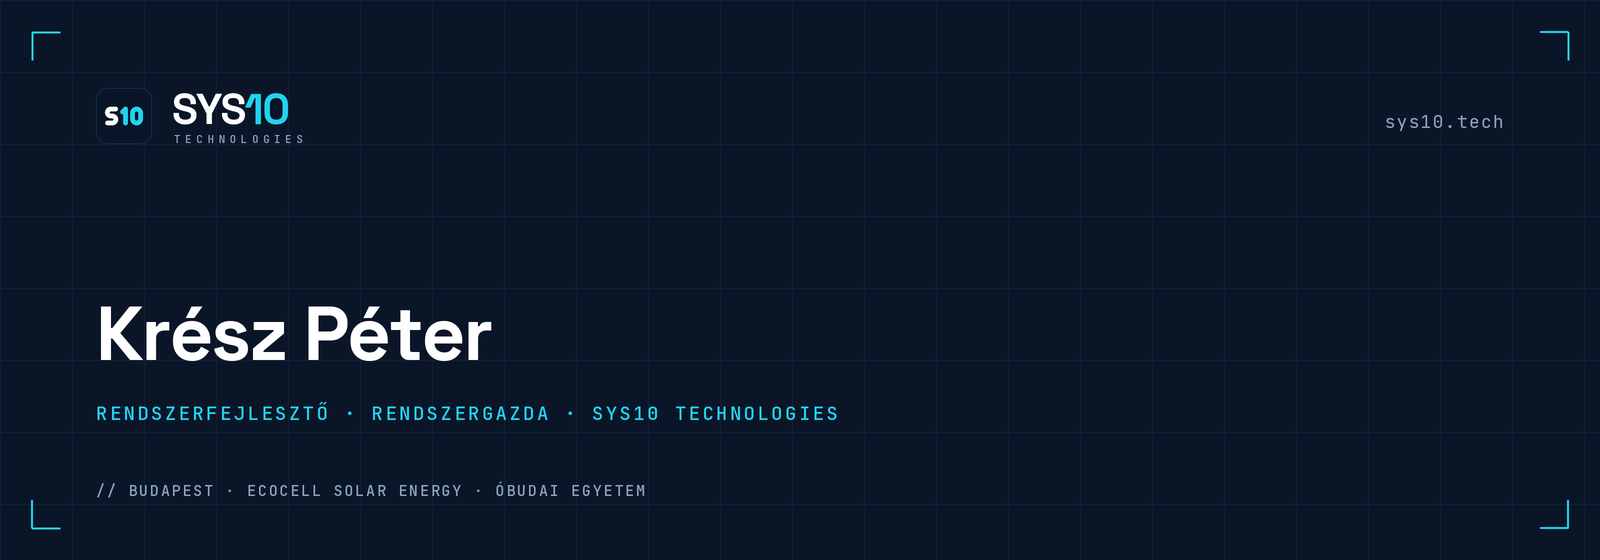
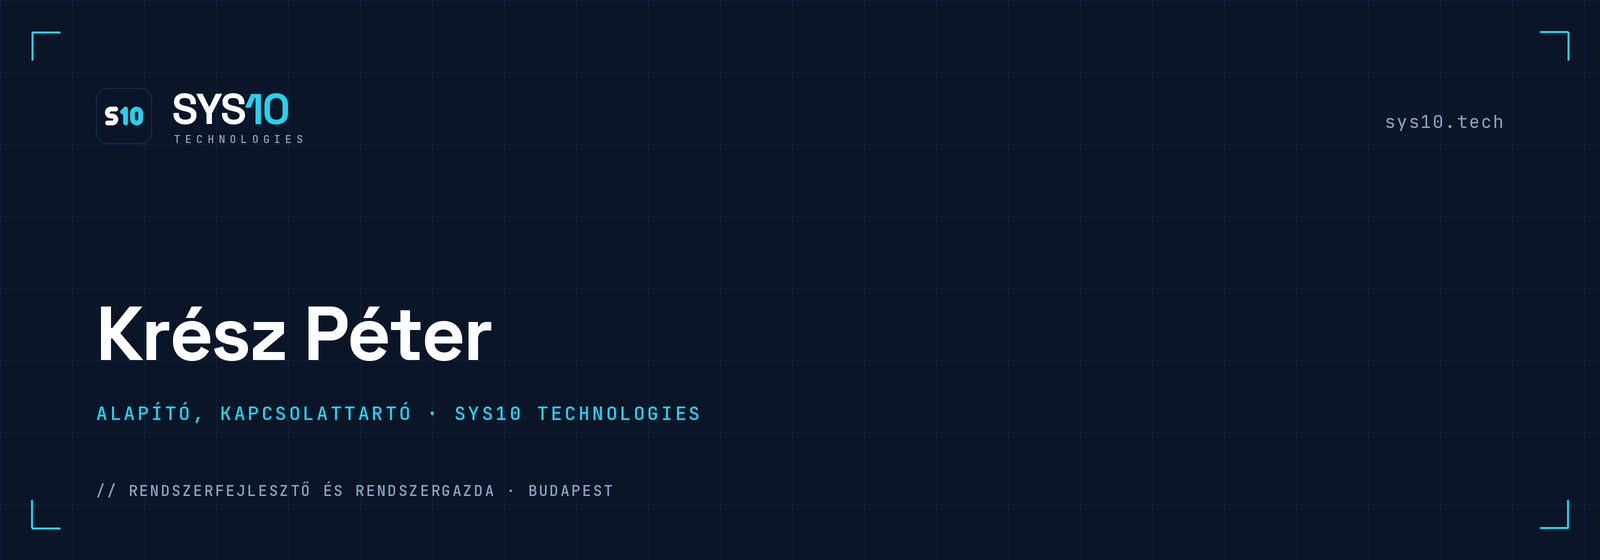
Szöveg igazítása az aktuális sys10.tech oldalhoz: csapat, egy partner
A brandbook v1.0 még „Egy ember felel az egészért” szlogent ír, az élő oldal
már csapatként, „Egy partner felel az egészért” hitvallással beszél.

Changed region(s): [[0.0625, 0.7286, 0.5312, 0.7589], [0.0938, 0.85, 0.25, 0.8804], [0.2812, 0.85, 0.4062, 0.8804]]

diff --git a/README.md b/README.md
@@ -3,20 +3,20 @@
 <a href="https://sys10.tech">
   <picture>
     <source media="(prefers-color-scheme: light)" srcset="assets/hero-light.png">
-    <img src="assets/hero-dark.png" width="100%" alt="Krész Péter. Rendszerfejlesztő, rendszergazda, Sys10 Technologies. Budapest.">
+    <img src="assets/hero-dark.png" width="100%" alt="Krész Péter. Alapító, kapcsolattartó, Sys10 Technologies. Rendszerfejlesztő és rendszergazda, Budapest.">
   </picture>
 </a>
 
 ### Rólam · About
 
-Rendszerfejlesztő és rendszergazda Budapesten. A [Sys10 Technologies](https://sys10.tech) nevén dolgozom: egy ember felel az egészért.
+A [Sys10 Technologies](https://sys10.tech) alapítója és kapcsolattartója. A Sys10 budapesti informatikai csapat: vállalatirányítási rendszert fejlesztünk, szervereket, hálózatokat és irodai informatikát üzemeltetünk, weboldalakat építünk.
 A napelemes **Ecocell Solar Energy**-nél IIoT- és energiamonitoring-rendszereken dolgozom, mellette **kiberbiztonság-szakos** hallgató vagyok az Óbudai Egyetemen.
 
-Systems developer and sysadmin in Budapest, working as [Sys10 Technologies](https://sys10.tech). At **Ecocell Solar Energy** I build IIoT and energy-monitoring systems, and I study **cybersecurity** at Óbuda University.
+Founder and client contact of [Sys10 Technologies](https://sys10.tech), an IT team in Budapest building business management systems, running infrastructure and building websites. At **Ecocell Solar Energy** I build IIoT and energy-monitoring systems, and I study **cybersecurity** at Óbuda University.
 
 <picture>
   <source media="(prefers-color-scheme: light)" srcset="https://raw.githubusercontent.com/Sys10-Technologies/.github/main/profile/assets/pillars-light.png">
-  <img src="https://raw.githubusercontent.com/Sys10-Technologies/.github/main/profile/assets/pillars-dark.png" width="100%" alt="Sys10 Technologies, három pillér: Helios, webfejlesztés, IT-üzemeltetés.">
+  <img src="https://raw.githubusercontent.com/Sys10-Technologies/.github/main/profile/assets/pillars-dark.png" width="100%" alt="Sys10 Technologies, amit átveszünk: Helios vállalatirányítás, webfejlesztés, infrastruktúra és biztonság.">
 </picture>
 
 ### Szakterületek · Expertise
